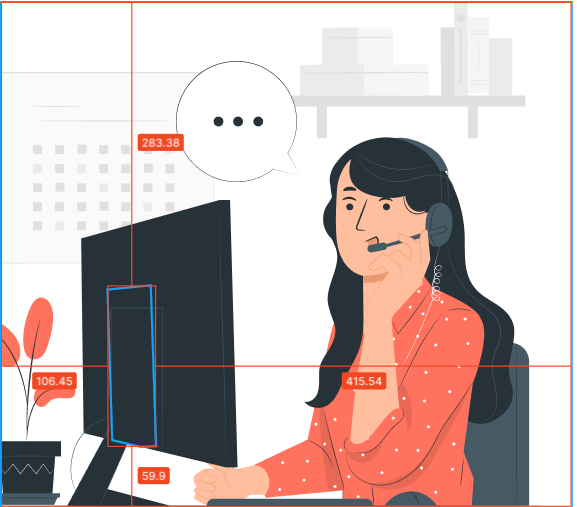
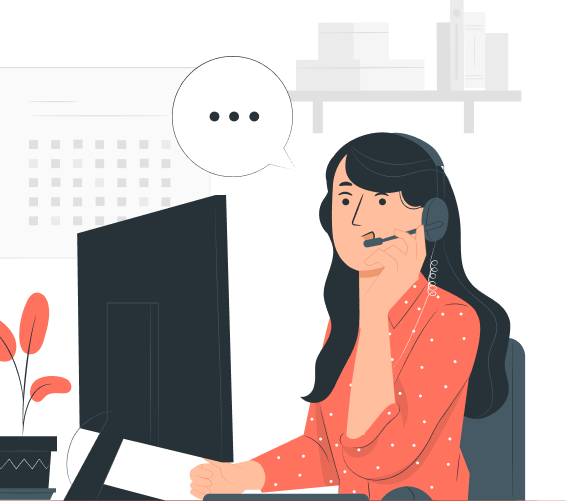
contactus  section design

diff --git a/components/ContactUs/index.js b/components/ContactUs/index.js
@@ -1,28 +1,57 @@
+import styled from "@emotion/styled"
 import { Button, DescriptionText, SectionTitle } from "../shared"
-
+const Styles = {
+  Wrapper: styled.section`
+    margin: 120px;
+  `,
+  Flex: styled.div`
+    display: flex;
+    justify-content: center;
+    margin-bottom: 24px;
+  `,
+  Form: styled.form`
+    margin-right: 48px;
+    > input,
+    textarea {
+      width: 100%;
+      border: 0.5px solid #a5a5a5;
+      height: 60px;
+      margin-bottom: 24px;
+      font-size: 16px;
+      line-height: 24px;
+      color: #a5a5a5;
+      padding-left: 24px;
+    }
+    > textarea {
+      height: 160px;
+      margin-bottom: 40px;
+    }
+  `,
+}
 const ContactUs = () => {
   return (
-    <>
-      <SectionTitle>Contact Us </SectionTitle>
-      <DescriptionText>
-        Lorem ipsum dolor sit amet, consectetur adipiscing elit. A dictum eget
-        eleifend quam. Orci quis et cras viverra feugiat pretium. Maecenas
-        tortor, aliquet blandit ornare. Sem a mattis interdum consectetur.
-      </DescriptionText>
-      <form>
-        <input type='text' placeholder='Full Name' />
-        <input type='text' placeholder='Phone' />
-        <input type='email' placeholder='Email' />
-        <textarea
-          name='message'
-          cols='30'
-          rows='10'
-          placeholder='Type your message'
-        ></textarea>
-      </form>
-      <Button variant='square'>Send Message</Button>
-      <img src='/contact-us-illustration.PNG' alt='Contact Us' />
-    </>
+    <Styles.Wrapper>
+      <SectionTitle center>Contact Us </SectionTitle>
+      <Styles.Flex>
+        <DescriptionText center>
+          Lorem ipsum dolor sit amet, consectetur adipiscing elit. A dictum eget
+          eleifend quam. Orci quis et cras viverra feugiat pretium. Maecenas
+          tortor, aliquet blandit ornare. Sem a mattis interdum consectetur.
+        </DescriptionText>
+      </Styles.Flex>
+      <Styles.Flex>
+        <Styles.Form>
+          <input type='text' placeholder='Full Name' />
+          <input type='text' placeholder='Phone' />
+          <input type='email' placeholder='Email' />
+          <textarea name='message' placeholder='Type your message'></textarea>
+          <Button variant='square' width='100%'>
+            Send Message
+          </Button>
+        </Styles.Form>
+        <img src='/contact-us-illustration.PNG' alt='Contact Us' />
+      </Styles.Flex>
+    </Styles.Wrapper>
   )
 }
 

diff --git a/components/shared/Button/styles.js b/components/shared/Button/styles.js
@@ -1,18 +1,22 @@
+import { css } from "@emotion/react"
 import styled from "@emotion/styled"
 
-const StyledButton = styled.button`
-  border: none;
-  display: flex;
-  justify-content: center;
-  align-items: center;
-  padding: 10px 32px;
-  height: 50px;
-  background: #ff5300;
-  border-radius: ${({ variant }) => (variant === "square" ? "0px" : "30px")};
-  font-weight: 600;
-  font-size: 20px;
-  color: #ffffff;
-  font-family: Raleway;
-  line-height: 30px;
-`
+const StyledButton = styled.button(
+  ({ width, variant }) => css`
+    border: none;
+    display: flex;
+    justify-content: center;
+    align-items: center;
+    padding: 10px 32px;
+    height: 50px;
+    background: #ff5300;
+    border-radius: ${variant === "square" ? "0px" : "30px"};
+    font-weight: 600;
+    font-size: 20px;
+    color: #ffffff;
+    font-family: Raleway;
+    line-height: 30px;
+    width: ${width ? width : "auto"};
+  `
+)
 export { StyledButton }

diff --git a/components/shared/Button/index.js b/components/shared/Button/index.js
@@ -1,7 +1,11 @@
 import { StyledButton } from "./styles"
 
-const Button = ({ children, variant }) => {
-  return <StyledButton variant={variant}>{children}</StyledButton>
+const Button = ({ children, variant, width }) => {
+  return (
+    <StyledButton variant={variant} width={width}>
+      {children}
+    </StyledButton>
+  )
 }
 
 export default Button
